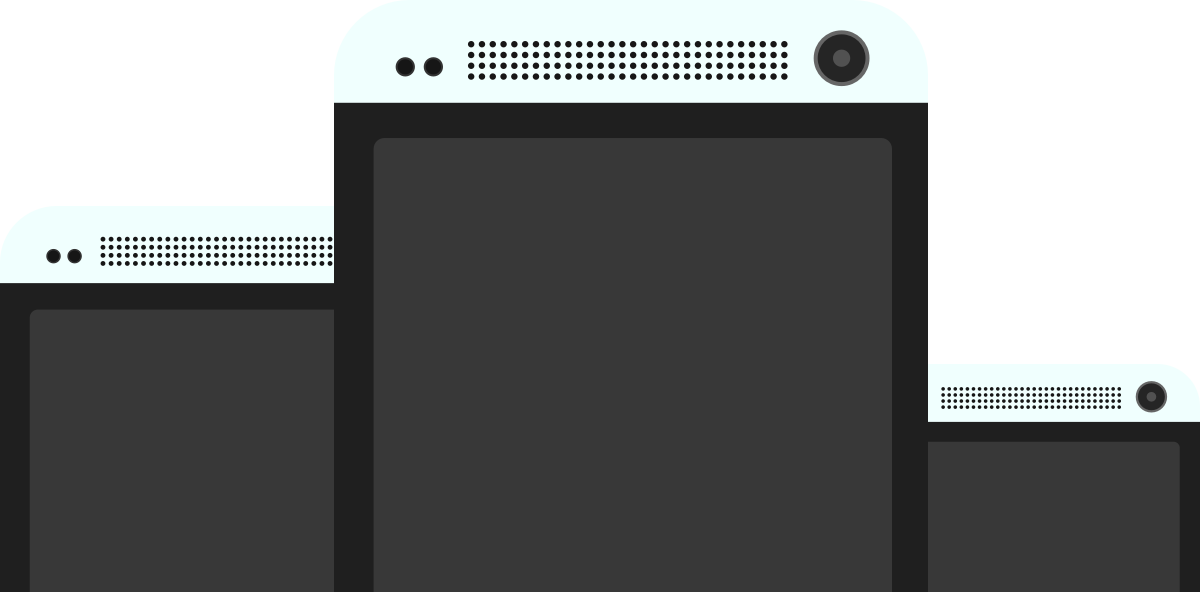
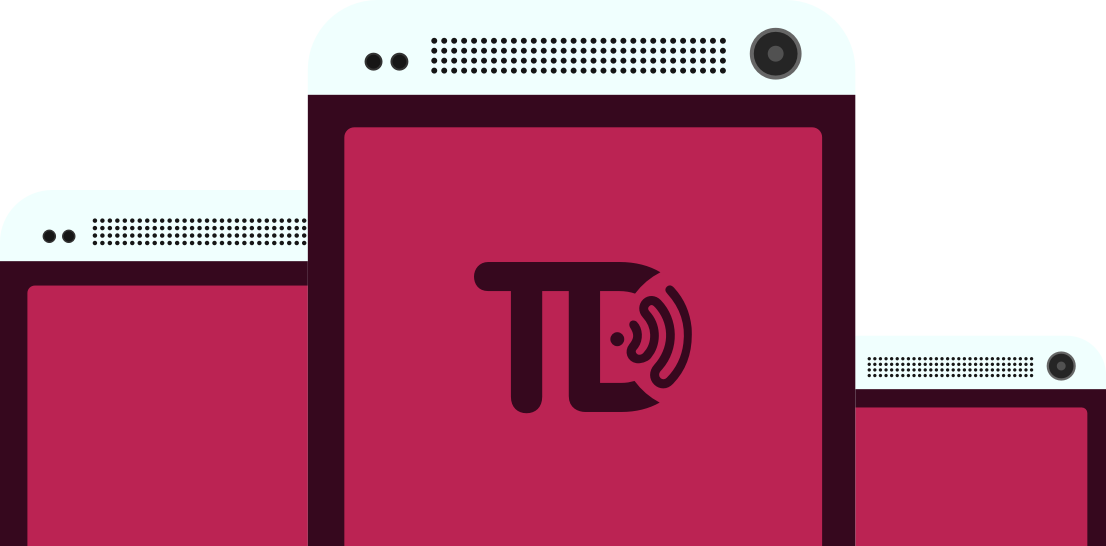
re-styled

diff --git a/app/assets/stylesheets/partials/header.css.scss b/app/assets/stylesheets/partials/header.css.scss
@@ -1,15 +1,22 @@
 .name {
-  //background: $oil;
-  img {
-    width: 250px;
-    padding: 18px 32px;
-  }
+
+    //background: $oil;
+    img {
+        width: 200px;
+        padding: 20px 32px;
+    }
 }
-
 .top-bar-section li:not(.has-form) a:not(.button) {
-  transition: all 0.25s ease-in-out;
-
-  &:hover {
-    box-shadow: inset 0px -200px 0px -195px $primary-color;
-  }
+    transition: all 0.25s ease-in-out;
+    &:hover {
+        box-shadow: inset 0 -200px 0 -195px $primary-color;
+    }
+}
+span {
+    border: 2px solid rgb(205, 209, 215);
+    padding: 5px 8px;
+    border-top-left-radius: 200px;
+    border-top-right-radius: 200px;
+    border-bottom-right-radius: 200px;
+    border-bottom-left-radius: 200px;
 }

diff --git a/app/assets/stylesheets/foundation_and_overrides.scss b/app/assets/stylesheets/foundation_and_overrides.scss
@@ -97,10 +97,10 @@ $font-family-sans-serif: 'Lato', sans-serif;
 // $font-weight-bold: bold !default;
 
 // We use these as default colors throughout
-$primary-color: #FD006B ;
+$primary-color: #BB2353 ;
 $secondary-color: #B8E986;
-$sand: #FFF5E3;
-$blush: #731C45;
+$sand: #FFC754;
+$blush: #2C0518;
 $midnight: #1F1F1F;
 $oil: #343434;
 $steel: #606060;
@@ -1369,7 +1369,7 @@ $table-border-size: 0;
 // $include-html-top-bar-classes: $include-html-classes;
 
 // Background color for the top bar
-$topbar-bg-color: $midnight;
+$topbar-bg-color: $blush;
 $topbar-bg: $topbar-bg-color;
 
 // Height and margin

diff --git a/app/assets/stylesheets/partials/home.css.scss b/app/assets/stylesheets/partials/home.css.scss
@@ -20,10 +20,11 @@ section:not(.top-bar-section) {
     font-weight: 900;
     font-style: italic;
     font-size: 50px;
+    color: $primary-color;
+  }
 
-    span {
+  p {
       color: $primary-color;
-    }
   }
 
   img {
